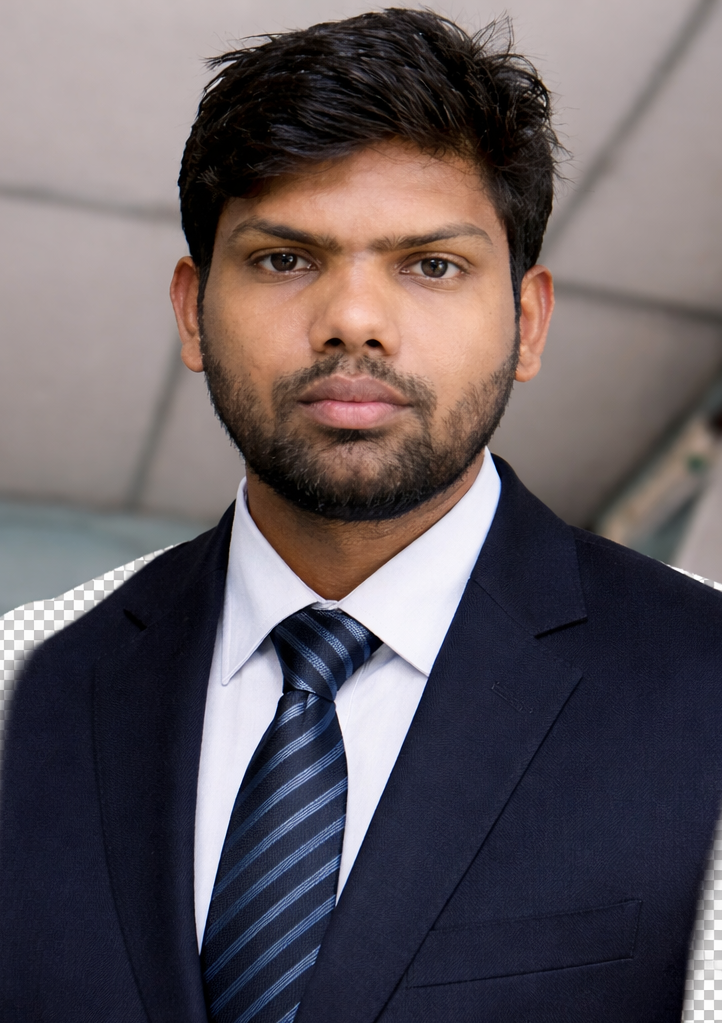
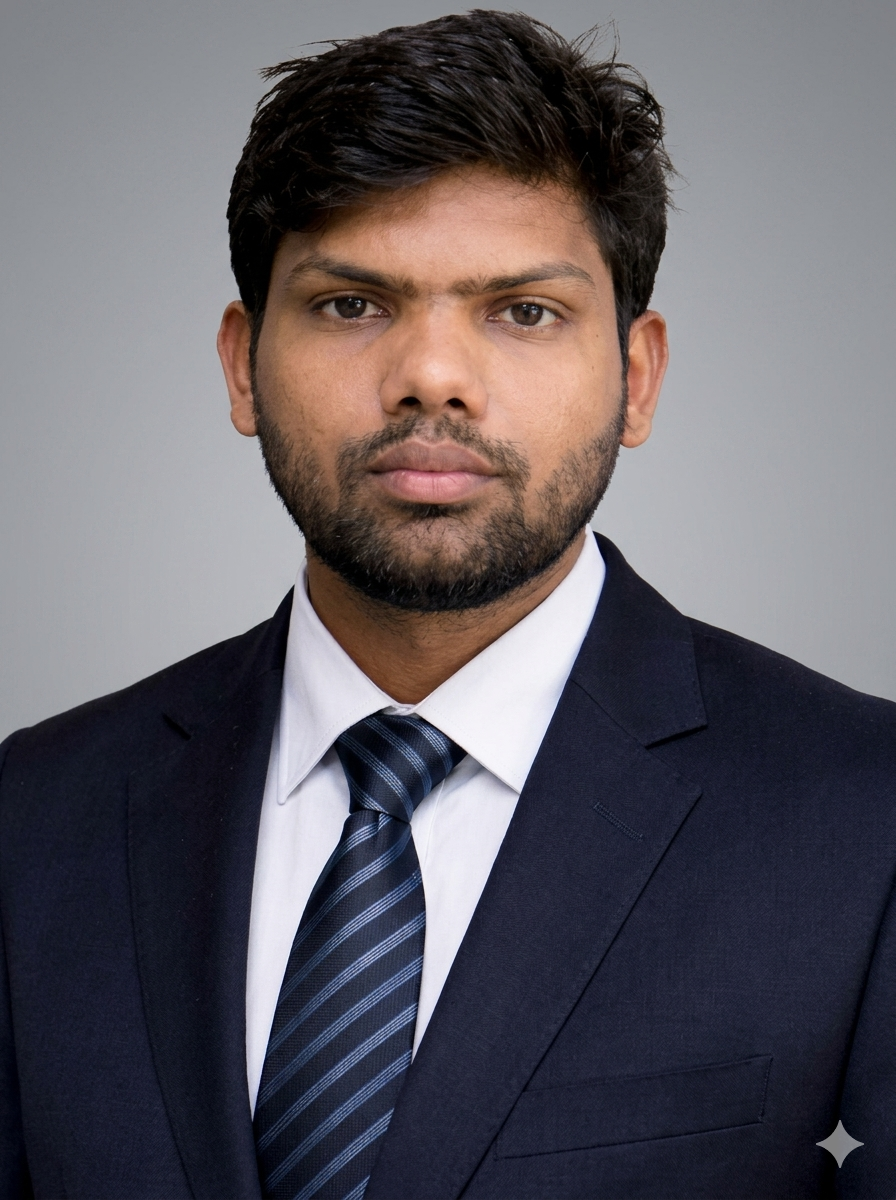
iamge updating

diff --git a/src/components/Carousel.jsx b/src/components/Carousel.jsx
@@ -1,6 +1,6 @@
 import React, { useEffect, useState } from "react";
 import Button from "./Button";
-import Loading from './Loading';
+import Loading from "./Loading";
 import "../styles/style.css";
 import { getProfile } from "../api/Api";
 
@@ -38,12 +38,11 @@ const Carousel = () => {
   }
 
   return (
-
     <div className="card shadow profileCards">
       {/* Cover Image */}
       <div className="position-relative">
         <img
-          src={profile.coverImg}
+          src={`${import.meta.env.BASE_URL}${profile.coverImg?.replace("../public/", "")}`}
           alt="Cover"
           className="w-100 coverImg"
         />
@@ -52,7 +51,7 @@ const Carousel = () => {
         <div className="profileImg position-absolute">
           {profile.profileImg && (
             <img
-              src={profile.profileImg}
+              src={`${import.meta.env.BASE_URL}${profile.profileImg?.replace("../public/", "")}`}
               alt="Profile"
               className="rounded-circle"
             />
@@ -63,19 +62,18 @@ const Carousel = () => {
       {/* Card Body */}
       <div className="card-body profileDetals mt-5">
         <div>
-           <h3 className="mb-0">{profile.name}</h3>
-        <p className="text-muted">{profile.title}</p>
-        <p className="text-muted">{profile.location}</p>
+          <h3 className="mb-0">{profile.name}</h3>
+          <p className="text-muted">{profile.title}</p>
+          <p className="text-muted">{profile.location}</p>
 
-        <div className="mt-3">
-          <button className="btn btn-primary me-2">Message</button>
-          <button className="btn btn-outline-secondary">More</button>
-        </div>
+          <div className="mt-3">
+            <button className="btn btn-primary me-2">Message</button>
+            <button className="btn btn-outline-secondary">More</button>
+          </div>
 
-        <p className="mt-3">{profile.description}</p>
+          <p className="mt-3">{profile.description}</p>
         </div>
       </div>
-
     </div>
   );
 };

diff --git a/src/components/Hero.jsx b/src/components/Hero.jsx
@@ -51,7 +51,7 @@ const Hero = () => {
                 </div>
 
                 <div className="col-lg-8 col-md-12 mb-4">
-                     <Social />
+                  <Social />
                 </div>
               </div>
             </div>
@@ -59,7 +59,13 @@ const Hero = () => {
 
           <div className="col-md-6">
             <div className="col-lg-12 hero-image ">
-              <img src={hero.heroImg} className="" alt="Hero" />
+              {/* <img src={hero.heroImg} className="" alt="Hero" /> */}
+             <img 
+  src={hero.heroImg ? `${import.meta.env.BASE_URL}${hero.heroImg.replace('../public/', '')}` : ''} 
+  className="img-fluid" 
+  alt="Hero" 
+/>
+
             </div>
           </div>
         </div>

diff --git a/src/components/Certification.jsx b/src/components/Certification.jsx
@@ -43,7 +43,7 @@ const Certification = () => {
         {certification.map((cert, index) => (
           <div className="timeline" key={index}>
             <div className="timeline-item" key={index}>
-              <div className="timeline-left">{cert.title}</div>
+              <div className="timeline-left"><a href="">{cert.title}</a></div>
               <div className="timeline-right">{cert.date}</div>
             </div>
           </div>

diff --git a/src/main.jsx b/src/main.jsx
@@ -6,7 +6,7 @@ import App from './App.jsx'
 
 createRoot(document.getElementById('root')).render(
   <StrictMode>
-    <BrowserRouter>
+    <BrowserRouter basename="/Manishportfolio">
     <App/>
     </BrowserRouter>
   </StrictMode>,

diff --git a/src/components/ContactForm.jsx b/src/components/ContactForm.jsx
@@ -28,7 +28,7 @@ const ContactForm = () => {
       setFormMessage("Please enter a valid email address.");
       return;
     }
-
+    
     setIsSubmitting(true);
     try {
       const payload = {
